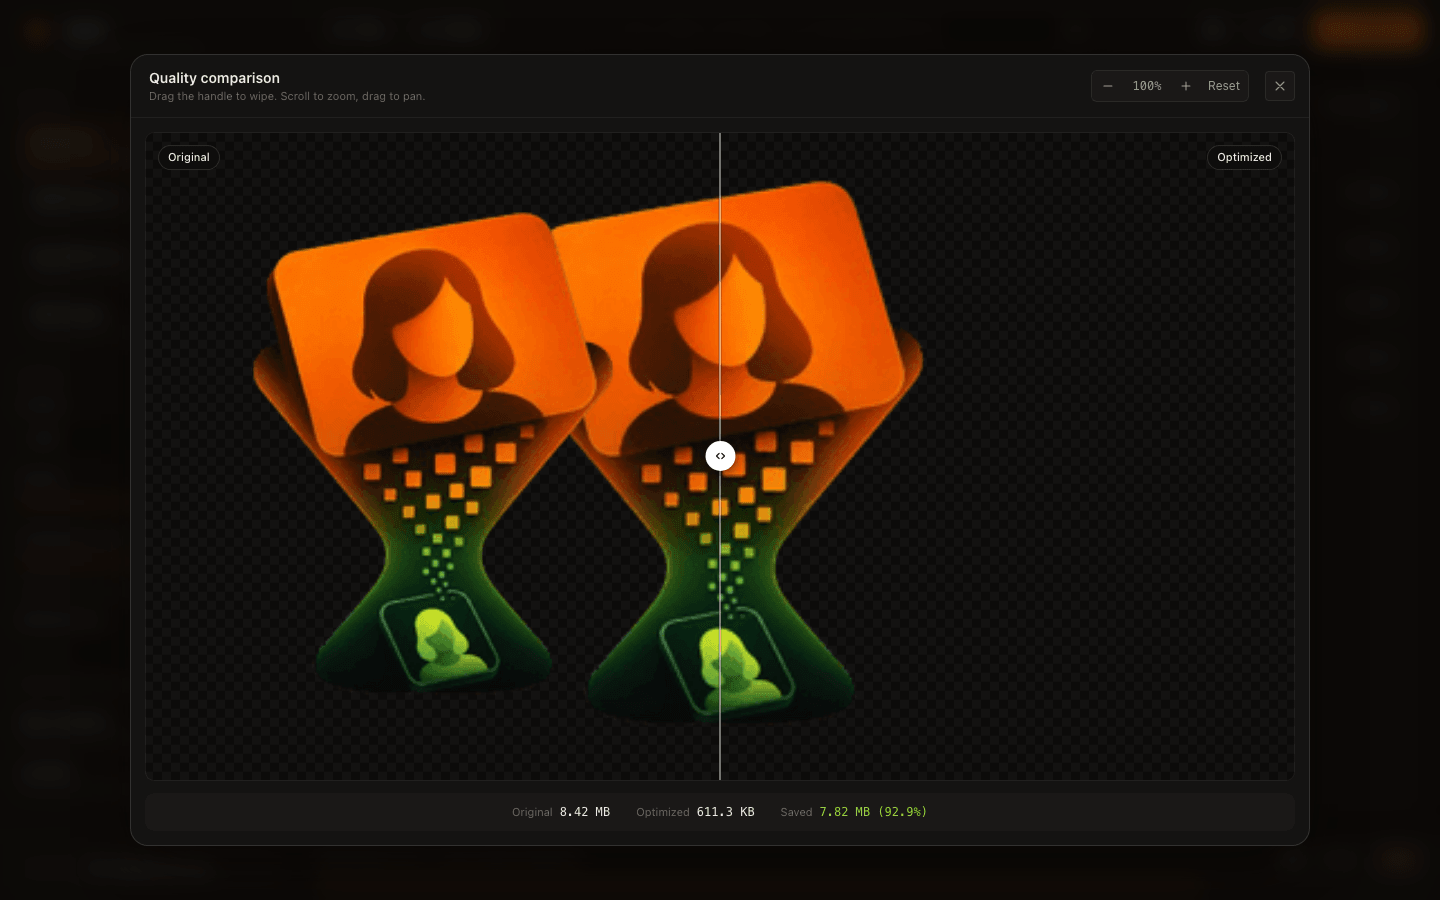
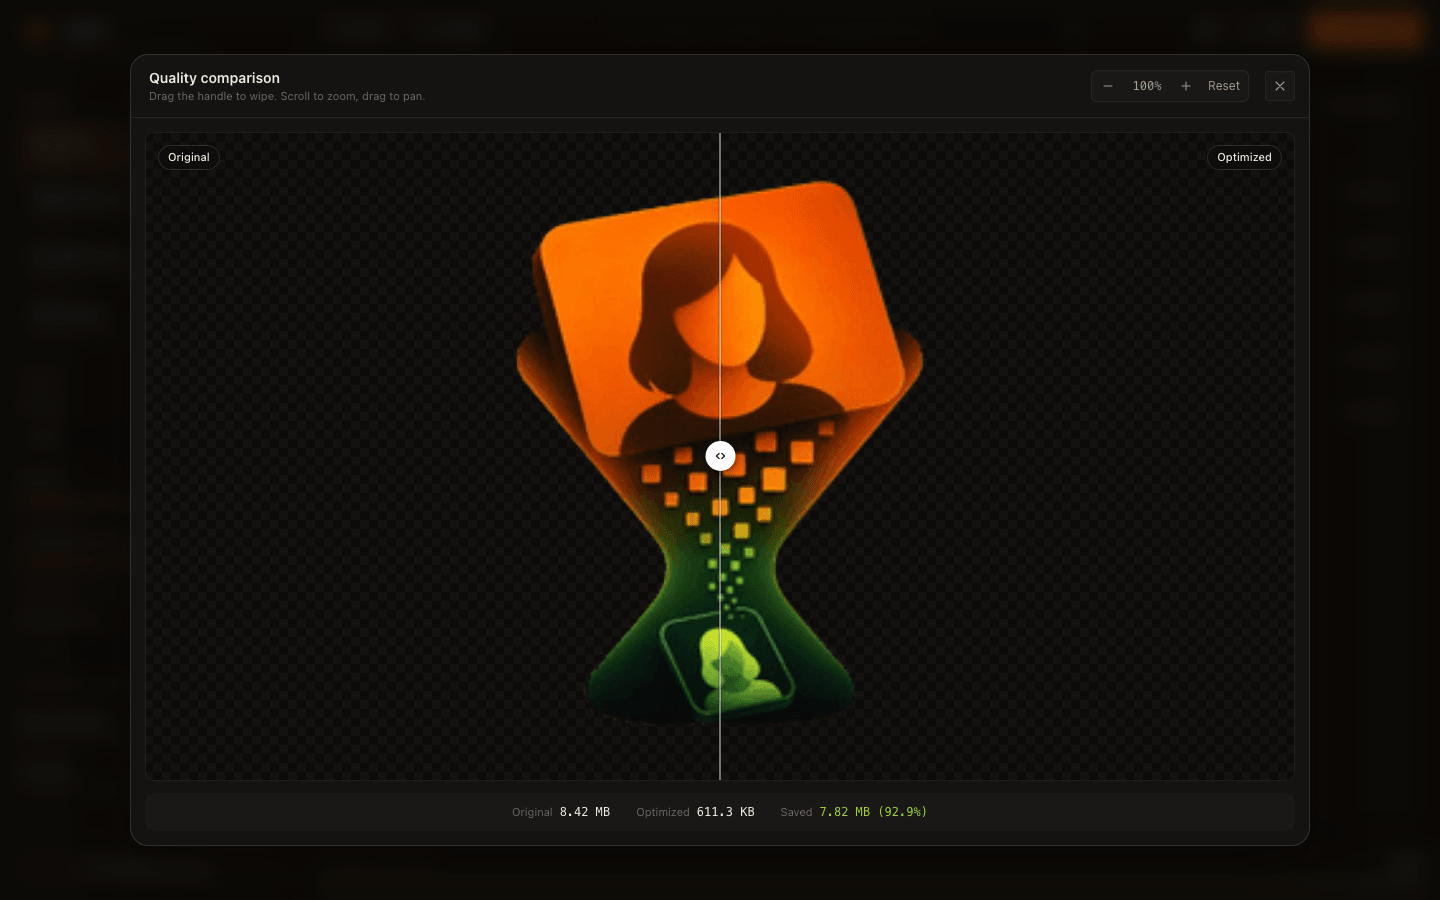
Fix compare screenshot and capitalise repo name in clone URL
The comparison shot was rendered from a static harness where the
ResizeObserver never ran, so the clipped layer kept its own width and the
two images sat side by side. It now shows a single image under the wipe
handle, matching the real app.

Changed region(s): [[0.1562, 0.2178, 0.4375, 0.7778], [0.4062, 0.2178, 0.5, 0.2489]]

diff --git a/README.md b/README.md
@@ -38,8 +38,8 @@ It runs entirely on your own machine. Nothing is uploaded anywhere.
 You need [Node.js](https://nodejs.org) 18.17 or newer.
 
 ```bash
-git clone https://github.com/novolg/cinch.git
-cd cinch
+git clone https://github.com/novolg/Cinch.git
+cd Cinch
 npm install
 npm start
 ```
